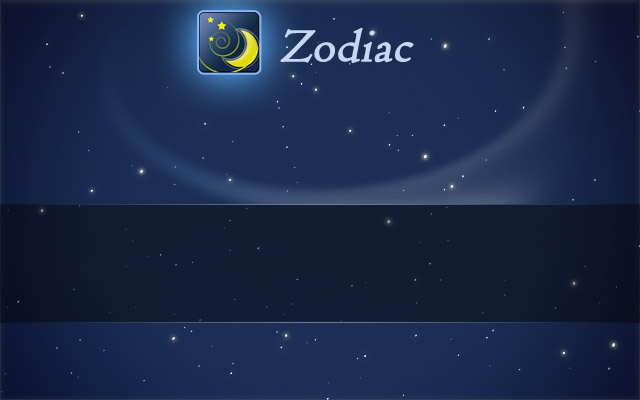
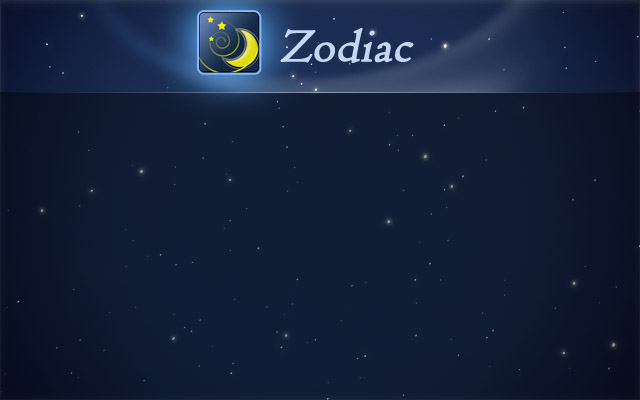
changed 'About' Window

diff --git a/zodiac/src/mainwindow.cpp b/zodiac/src/mainwindow.cpp
@@ -793,15 +793,26 @@ void MainWindow        :: showAbout           ( )
  {
   QDialog* d = new QDialog(this);
   QLabel* l = new QLabel;
+  QLabel* l2 = new QLabel;
+  SlideWidget* s = new SlideWidget;
+  QPushButton* b = new QPushButton(tr("Credits"));
 
+  b->setCheckable(true);
   d->setObjectName("about");
   l->setWordWrap(true);
   l->setTextInteractionFlags(Qt::LinksAccessibleByMouse|
                              Qt::TextSelectableByMouse);
+  l2->setWordWrap(true);
+  l2->setTextInteractionFlags(Qt::LinksAccessibleByMouse|
+                             Qt::TextSelectableByMouse);
+  s->addSlide(l);
+  s->addSlide(l2);
+  s->setTransitionEffect(SlideWidget::Transition_Overlay);
 
   QVBoxLayout* v = new QVBoxLayout(d);
    v->setMargin(0);
-   v->addWidget(l);
+   v->addWidget(s);
+   v->addWidget(b);
 
   l->setText("<center><b><big>" + QApplication::applicationVersion() + "</big></b>"
           "<p>" + tr("Astrological software for personal use.") + "</p>"
@@ -813,6 +824,18 @@ void MainWindow        :: showAbout           ( )
                      " but WITHOUT ANY WARRANTY; without even the implied warranty of MERCHANTABILITY"
                      " or FITNESS FOR A PARTICULAR PURPOSE.") + "</center>");
 
-  connect(l, SIGNAL(linkActivated(QString)), this, SLOT(gotoUrl(QString)));
+
+  l2->setText("<p><b>Swiss Ephemerides library</b><br>"
+              "Copyright (C) 1997 - 2008 Astrodienst AG, Switzerland.  All rights reserved.<br>"
+              "<a style='color:white' href=\"ftp://www.astro.ch/pub/swisseph/LICENSE\">ftp://www.astro.ch/pub/swisseph/LICENSE</a></p>"
+              "<p><b>Primo Icon Set</b> by Webdesigner Depot<br>"
+              "<a style='color:white' href=\"https://www.iconfinder.com/iconsets/Primo_Icons#readme\">www.iconfinder.com/iconsets/Primo_Icons#readme</a></p>"
+              "<p><b>Almagest True Type Font</b></p>"
+              "<p>Additional thanks to authors of <b>\"SymSolon\"</b> project<br>"
+              "<a style='color:white' href=\"http://sf.net/projects/symsolon\">sf.net/projects/symsolon</a></p>");
+
+  connect(l,  &QLabel::linkActivated, this, &MainWindow::gotoUrl);
+  connect(l2, &QLabel::linkActivated, this, &MainWindow::gotoUrl);
+  connect(b,  &QPushButton::clicked, s, &SlideWidget::nextSlide);
   d->exec();
  }

diff --git a/zodiac/src/main.cpp b/zodiac/src/main.cpp
@@ -20,7 +20,7 @@ int main(int argc, char *argv[])
 {
     QApplication a(argc, argv);
     a.setApplicationName("Zodiac");
-    a.setApplicationVersion("build 2014-03-24 alpha");
+    a.setApplicationVersion("v0.6.2 (build 2014-03-24)");
 
     //QTextCodec* codec = QTextCodec::codecForName ( "CP1251" );
     //QTextCodec::setCodecForCStrings ( codec );

diff --git a/zodiac/src/slidewidget.h b/zodiac/src/slidewidget.h
@@ -26,6 +26,9 @@ class SlideWidget : public QWidget
         int currentSlideIndex()                       { return currentIndex; }
         int count()                                   { return slides.count(); }
 
+    public slots:
+        void nextSlide();
+
     private slots:
         void transitionDone();
 

diff --git a/zodiac/src/slidewidget.cpp b/zodiac/src/slidewidget.cpp
@@ -67,6 +67,12 @@ void SlideWidget :: setSlide(int number)
   currentIndex = number;
  }
 
+void SlideWidget :: nextSlide()
+ {
+  int i = (currentSlideIndex() + 1) % count();
+  setSlide(i);
+ }
+
 QWidget* SlideWidget :: currentSlide()
  {
   if (slides.count() < currentIndex || currentIndex < 0)
